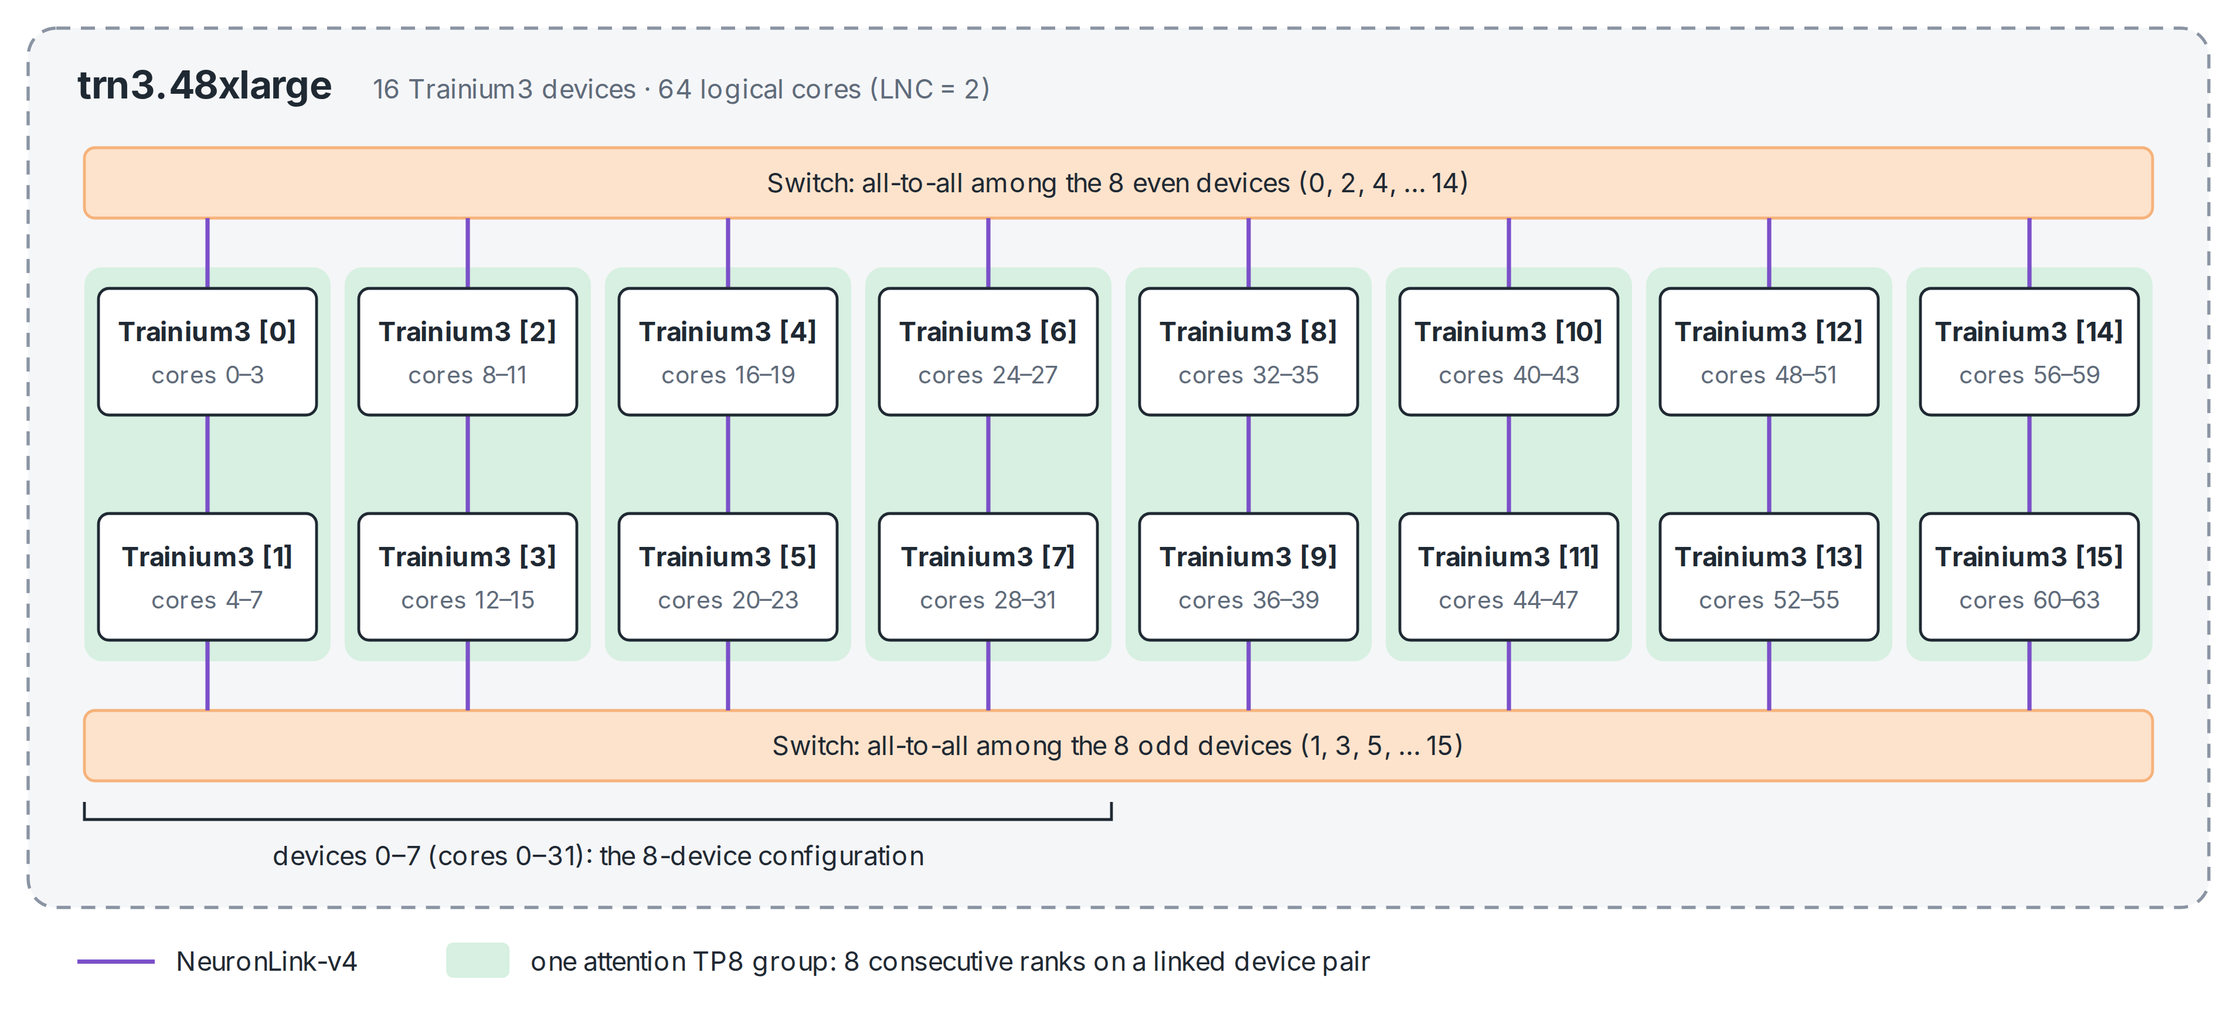
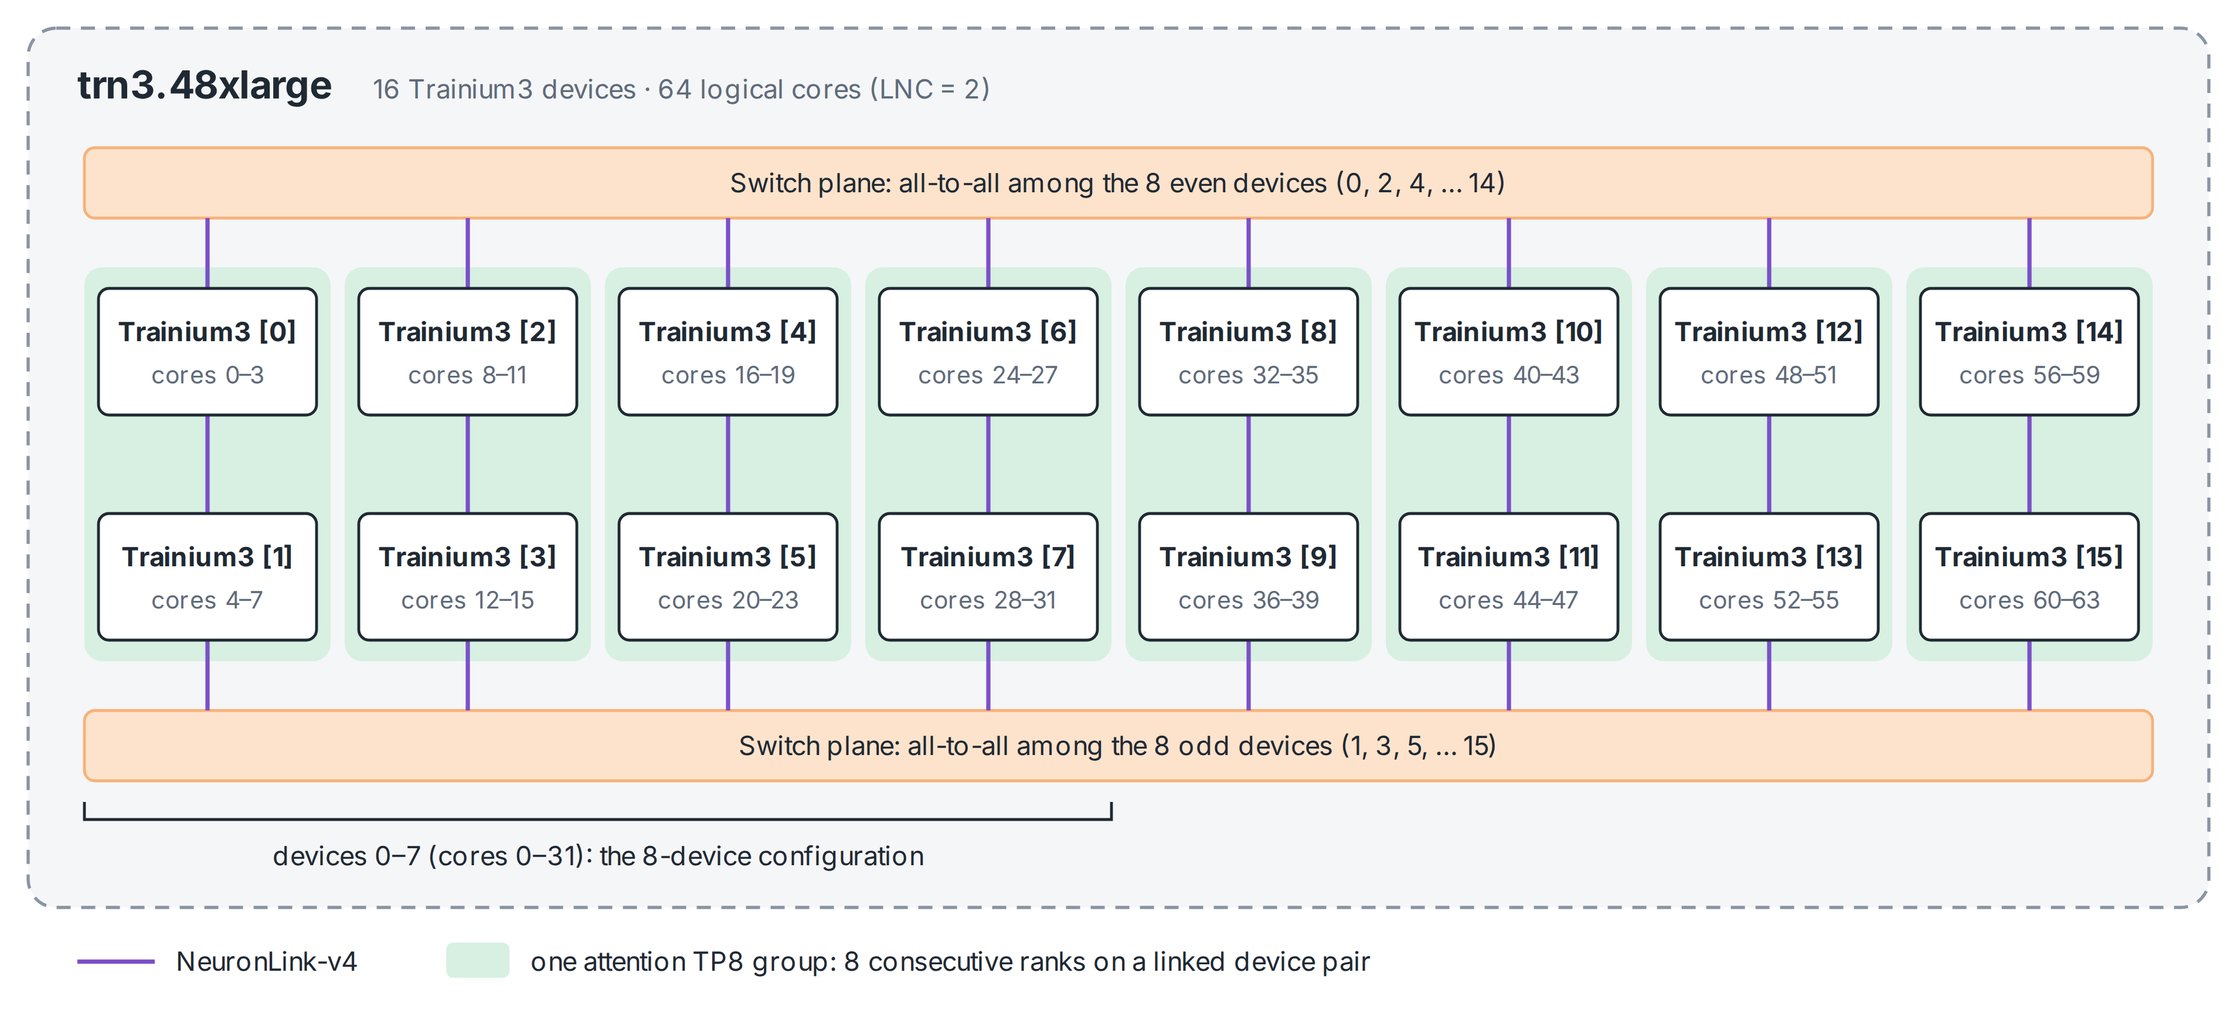
update blog

Changed region(s): [[0.3118, 0.7138, 0.6861, 0.7448], [0.3118, 0.1552, 0.6861, 0.1862]]

diff --git a/rpt_figs/scripts/topology.py b/rpt_figs/scripts/topology.py
@@ -1,5 +1,5 @@
 """trn3.48xlarge interconnect, from `neuron-ls --topology` on the instance: device 2k <-> 2k+1 direct link, the 8 even
-devices all-to-all through one switch, the 8 odd devices through another. LNC=2: 4 logical cores per device.
+devices all-to-all through one switch plane, the 8 odd devices through another. LNC=2: 4 logical cores per device.
 Attention TP8 group = 8 consecutive ranks (the EP-TP group) = one linked pair; the 8-device runs use devices 0-7."""
 import sys
 from pathlib import Path
@@ -37,8 +37,8 @@ for i in range(8):
                                    fill=GREEN_L, rx=5)]))
 # switches
 sx0, sx1 = X0 + 2, X0 + PITCH * 8 - 2
-for sid, (y, h), lab in [('sw_even', SW_T, 'Switch: all-to-all among the 8 even devices (0, 2, 4, … 14)'),
-                         ('sw_odd', SW_B, 'Switch: all-to-all among the 8 odd devices (1, 3, 5, … 15)')]:
+for sid, (y, h), lab in [('sw_even', SW_T, 'Switch plane: all-to-all among the 8 even devices (0, 2, 4, … 14)'),
+                         ('sw_odd', SW_B, 'Switch plane: all-to-all among the 8 odd devices (1, 3, 5, … 15)')]:
     b.append(g(f'n:{sid}', [rect(sx0, y, sx1 - sx0, h, fill=ORANGE_L, stroke=ORANGE_M, sw=0.8, rx=3),
                             text((sx0 + sx1) / 2, y + h / 2 + 2.7, lab, size=7.5, anchor='middle')], 'node'))
 # links (drawn before devices so the device boxes cover the line ends)

diff --git a/BLOG.md b/BLOG.md
@@ -53,19 +53,19 @@ The layers are arranged in groups that each start with a Full or Reindex layer f
 
 ## AWS Trainium 3 vs. NVIDIA B300
 
-A Trainium 3 device has eight compute cores (NeuronCore-v4) and 4 HBM stacks, where every pair of cores share the same HBM stack. A NeuronCore is a heterogeneous processor with several specialized engines. The **Tensor Engine** is a systolic array for matrix multiplications. The **Vector Engine** and **Scalar Engine** run vector operations such as reductions and activation functions. The **GPSIMD Engine** runs general-purpose code. They share a software-managed on-chip scratchpad, **SBUF**, while the Tensor Engine accumulates into a separate buffer, **PSUM**. The DMA engines move data between HBM and SBUF. Although there are 8 cores in one device, the architecture is organized as 4 ranks connected through NeuronLink-v4. Interconnects between ranks in the same device and across devices are the same. One can therefore treat a Trainium 3 device as "4 devices".
+A Trainium 3 device has eight compute cores (NeuronCore-v4) and 4 HBM3E stacks, where every pair of cores share the same HBM stack [3] [6]. A NeuronCore is a heterogeneous processor with several specialized engines. The **Tensor Engine** is a systolic array for matrix multiplications. The **Vector Engine** runs operations where each output depends on several inputs, such as reductions and normalization. The **Scalar Engine** runs element-wise operations such as activation functions. The **GPSIMD Engine** runs general-purpose code. They share a software-managed on-chip scratchpad, **SBUF**, while the Tensor Engine accumulates into a separate buffer, **PSUM**. The DMA engines move data between HBM and SBUF. Although there are 8 cores in one device, software addresses them as logical NeuronCores. With the configuration we use (LNC = 2), a device appears as 4 logical cores, each made of 2 physical cores and 36 GiB of HBM [3] [6]. Each logical core is one rank of our deployment. A rank sends data to a rank on the same device in the same way as to a rank on another device, where the transfer travels over NeuronLink-v4 [5] [6]. One can therefore treat a Trainium 3 device as "4 devices".
 
 ![Trainium 3 device and the NeuronCore programming model](rpt_figs/trainium3_neuroncore.png)
 
 *Figure 4. Left: a Trainium 3 device, eight NeuronCore-v4 cores around four HBM stacks. Right: the programming model of one NeuronCore. DMA moves data between HBM and the on-chip SBUF. The tensor, vector, scalar and GPSIMD engines read from and write to SBUF, and the tensor engine accumulates into PSUM [3] [4].*
 
-Compared with Trainium 2, Trainium 3 has 1.5x the HBM capacity (144 GiB against 96 GiB) and 1.7x the HBM bandwidth (4.9 TB/s against 2.9 TB/s) per device. The devices are also connected differently. Trainium 2 links its devices in a 2D torus. Traffic between distant devices passes through the devices in between. A trn3.48xlarge instance has 16 Trainium 3 devices connected through switches instead (Figure 5). Each device has a direct link to one partner, device 2k to device 2k+1. Beyond that, the instance is split into two halves: the eight even-numbered devices are connected all-to-all through one switch, and the eight odd-numbered devices through a second switch. A device therefore reaches its partner and every device of its own half in one hop, and any other device in two hops, through its partner or through the switch.
+Compared with Trainium 2, Trainium 3 has 1.5x the HBM capacity (144 GiB against 96 GiB) and 1.7x the HBM bandwidth (4.9 TB/s against 2.9 TB/s) per device [3]. The extra bandwidth comes from faster HBM3E: the pin speed rises from 5.7 Gbps to 9.6 Gbps on the same four stacks [6]. The devices are also connected differently. A trn2.48xlarge links its 16 Trainium 2 devices in a 4×4 2D torus [6]. Traffic between distant devices passes through the devices in between. A trn3.48xlarge instance has 16 Trainium 3 devices connected through switches instead (Figure 5) [5]. Each device has a direct link to one partner, device 2k to device 2k+1 [5]. Beyond that, every device connects to the rack's NeuronSwitch-v1 [5]. AWS documents it as one all-to-all switch per rack. In the first generation of switch trays, it is built as two switch planes of eight PCIe 6.0 switches each, and a device links to all eight switches of one plane only [6]. The eight even-numbered devices are on one plane, and the eight odd-numbered devices on the other. A device therefore reaches its partner and every device of its own plane in one hop, and any other device in two hops, through its partner or through a device of its own plane. Transfers that need two hops are forwarded automatically, so a kernel only names the destination [5] [6]. The planes sit in the rack, outside the instance, and also serve the second 16-device server of the rack [5] [6].
 
 ![trn3.48xlarge interconnect](rpt_figs/trn3_48xlarge_topology.png)
 
-*Figure 5. Interconnect topology of trn3.48xlarge. Devices 2k and 2k+1 share a direct link. The 8 even devices are connected all-to-all through one switch, and the 8 odd devices through another. With 4 ranks in each device, the 16-device configuration runs 64 ranks on cores 0–63. Each attention TP8 group (8 consecutive ranks) sits on one linked device pair.*
+*Figure 5. Interconnect topology of trn3.48xlarge. Devices 2k and 2k+1 share a direct link. The 8 even devices are connected all-to-all through one switch plane, and the 8 odd devices through another [5] [6]. With 4 ranks in each device, the 16-device configuration runs 64 ranks on cores 0–63. Each attention TP8 group (8 consecutive ranks) sits on one linked device pair.*
 
-One question is, compared to B300 which is the current state-of-the-art serving device, what's the competence of Trainium 3? The table below compares a Trainium 3 device with an NVIDIA B300 GPU. B300 has 2x the FP8 throughput, 6x the FP4 throughput, 3.7x the BF16 throughput, 1.6x the HBM bandwidth, about twice the memory and 7x the intra-server interconnect bandwidth than Trainium. 
+One question is, compared to B300 which is the current state-of-the-art serving device, what's the competence of Trainium 3? The table below compares a Trainium 3 device with an NVIDIA B300 GPU. B300 has 2x the FP8 throughput, 6x the FP4 throughput, 3.7x the BF16 throughput, 1.6x the HBM bandwidth, about twice the memory and 3.5x the intra-server interconnect bandwidth than Trainium. 
 
 | Per chip | Trainium 3 | B300 | B300 / Trainium 3 |
 |---|---|---|---|
@@ -74,9 +74,9 @@ One question is, compared to B300 which is the current state-of-the-art serving 
 | Dense BF16 | 0.67 PFLOPS | 2.5 PFLOPS | 3.7x |
 | FP32 | 0.18 PFLOPS | 0.08 PFLOPS | 0.45x |
 | HBM | 144 GiB at 4.9 TB/s | up to 288 GB at 8 TB/s | 1.6x bandwidth |
-| Intra-server interconnect | 256 GB/s (NeuronLink-v4) | 1,800 GB/s (NVLink 5) | 7x |
+| Intra-server interconnect, one direction | 256 GB/s (NeuronLink-v4, measured all-gather) | 900 GB/s (NVLink 5, link rate) | 3.5x |
 
-*B300 values are NVIDIA's GB300 NVL72 rack figures divided by its 72 GPUs, with sparse figures halved to dense  [3] [5].*
+*B300 values are NVIDIA's GB300 NVL72 rack figures divided by its 72 GPUs, with sparse figures halved to dense [3] [7].*
 
 Looking at the FLOPs of DeepSeek V4.1 Flash by data type, we found that 47.6% are FP4 (the routed experts), 30.8% FP8, 17.2% BF16 and 4.5% FP32:
 
@@ -87,11 +87,11 @@ Looking at the FLOPs of DeepSeek V4.1 Flash by data type, we found that 47.6% ar
 | BF16 | 17.2% | 3.7x |
 | FP32 | 4.5% | 0.45x |
 
-Therefore, 1 B300 is equivalent to 4 Trainium 3 in terms of the FLOPs performance for DeepSeek V4.1 Flash, about 2 Trainium 3 in terms of the HBM bandwidth, and 7 Trainium 3 for interconnect bandwidth. Decoding of LLMs is highly memory-bound. In production deployments, however, large collective overheads and dependency chains between compute, collectives and DMA accesses are often the culprits of overall slowdown. Furthermore, Trainium 3 needs to perform collectives across more ranks, which makes the interconnect bandwidth a more severe bottleneck. Therefore, we believe more than 2 Trainium 3 is needed to catch up a single B300 GPU.
+Therefore, 1 B300 is equivalent to 4 Trainium 3 in terms of the FLOPs performance for DeepSeek V4.1 Flash, about 2 Trainium 3 in terms of the HBM bandwidth, and 3.5 Trainium 3 for interconnect bandwidth. Decoding of LLMs is highly memory-bound. In production deployments, however, large collective overheads and dependency chains between compute, collectives and DMA accesses are often the culprits of overall slowdown. Furthermore, Trainium 3 needs to perform collectives across more ranks, which makes the interconnect bandwidth a more severe bottleneck. Therefore, we believe more than 2 Trainium 3 is needed to catch up a single B300 GPU.
 
 ## Inference Optimization: Reaching 60x Speedup Over 12 days
 
-Our deployment is built on the vLLM Neuron plugin [8], which adds a Neuron backend to vLLM [9]. All of its kernels are written in the Neuron Kernel Interface (NKI) [10] on Neuron SDK 2.33.0. Many components of DeepSeek V4.1 Flash, such as CSA2, mHC, Engram and DSpark, are not yet supported by vLLM Neuron. We therefore first brought the model up on a trn2.48xlarge, where we implemented the missing operations and validated correctness. We then moved it to a trn3.48xlarge on Oct 22, where it decoded at 99.4 ms per token. Over the following two weeks, we optimized it in four directions: using Trainium 3's new hardware features, fusing kernels into megakernels, removing host overhead in vLLM's Neuron backend, and specializing kernels and parallelization for each phase.
+Our deployment is built on the vLLM Neuron plugin [10], which adds a Neuron backend to vLLM [11]. All of its kernels are written in the Neuron Kernel Interface (NKI) [12] on Neuron SDK 2.33.0. Many components of DeepSeek V4.1 Flash, such as CSA2, mHC, Engram and DSpark, are not yet supported by vLLM Neuron. We therefore first brought the model up on a trn2.48xlarge, where we implemented the missing operations and validated correctness. We then moved it to a trn3.48xlarge on Oct 22, where it decoded at 99.4 ms per token. Over the following two weeks, we optimized it in four directions: using Trainium 3's new hardware features, fusing kernels into megakernels, removing host overhead in vLLM's Neuron backend, and specializing kernels and parallelization for each phase.
 
 ### Exploit new hardware features in Trainium 3
 
@@ -192,7 +192,7 @@ Inside a megakernel, the device mostly waits while an all-reduce is in flight. W
 
 ### Temporal Disaggregation: Specialized Kernels/Parallelization for Different Computations
 
-LLMs are getting more diverse and complex. Disaggregated inference has become a standard way to serve them. Prefill/decode (PD) disaggregation [11] [12] runs the compute-bound prefill and the memory-bound decode on separate groups of devices. Attention/FFN disaggregation (AFD) [13] [14] further separates attention from the MoE experts. Each group then uses the kernels and parallelization scheme that fit its work.
+LLMs are getting more diverse and complex. Disaggregated inference has become a standard way to serve them. Prefill/decode (PD) disaggregation [13] [14] runs the compute-bound prefill and the memory-bound decode on separate groups of devices. Attention/FFN disaggregation (AFD) [15] [16] further separates attention from the MoE experts. Each group then uses the kernels and parallelization scheme that fit its work.
 
 Similarly, different parts of DeepSeek V4.1 Flash need different kernels and parallelization schemes. New modules such as Engram add more choices. For high interactivity, however, splitting the model across groups of devices would add latency to every decoding step. We therefore use temporal disaggregation. Each module and each stage has its own kernels and parallelization scheme, and they run one after another on the same devices (Figure 8).
 
@@ -282,8 +282,8 @@ For the first token, Trainium 3 is already on par with GPU serving. The table be
 
 | Deployment | TTFT, 1K-token prompt | Source |
 |---|---|---|
-| Dynamo vLLM, concurrency 1 | 0.2 s | [6] |
-| Together AI | 0.3 s | [7] |
+| Dynamo vLLM, concurrency 1 | 0.2 s | [8] |
+| Together AI | 0.3 s | [9] |
 | Trainium 3, 8 devices (ours) | 0.24 s | median at batch size 1 |
 
 Our TTFT is close to Dynamo vLLM and lower than Together AI. The published numbers are rounded to a tenth of a second, and Artificial Analysis measures from the client, including the network.
@@ -300,7 +300,7 @@ Serving one user on half of the instance also makes Trainium 3 cheaper per token
 | Trainium 3, 8 devices, $47/hr instance | JSON data, exact copy | 8 Trn3 | 432–445 | 23.50 | 66,179–68,170 | 1.83–1.88x |
 | Trainium 3, 8 devices, $51/hr instance | JSON data, exact copy | 8 Trn3 | 432–445 | 25.50 | 60,988–62,824 | 1.68–1.74x |
 
-The B300 cost is AWS's 8-GPU B300 instance at $130 per hour, divided by two for 4 GPUs. The trn3.48xlarge price is our estimate: $47 per hour based on H100 pricing, or $51 per hour based on the performance ratio to B300. The B300 token speed is the P90 interactivity measured by SemiAnalysis InferenceX [6] on Oct 20. Neither side counts input tokens or prefill time. We have no B300 measurement on code or JSON data. If B300 also runs faster on such text, the code and JSON rows overstate the advantage of Trainium 3.
+The B300 cost is AWS's 8-GPU B300 instance at $130 per hour, divided by two for 4 GPUs. The trn3.48xlarge price is our estimate: $47 per hour based on H100 pricing, or $51 per hour based on the performance ratio to B300. The B300 token speed is the P90 interactivity measured by SemiAnalysis InferenceX [8] on Oct 20. Neither side counts input tokens or prefill time. We have no B300 measurement on code or JSON data. If B300 also runs faster on such text, the code and JSON rows overstate the advantage of Trainium 3.
 
 ### Batch 1 vs. batch 10
 
@@ -317,7 +317,7 @@ With ten sequences, a decoding step takes about 41 to 45 ms, whether one user or
 
 ## Profile Analysis
 
-Trainium 3 matches GPU serving on TTFT, but not on decoding speed. The B300 deployment serves 653.6 tokens/s per user [6], 2.27x more than our 8-device deployment. This is expected from the [hardware comparison](#aws-trainium-3-vs-nvidia-b300). Our deployment uses 2 Trainium 3 devices for each B300. This gives slightly more HBM bandwidth than B300, but about half of the FLOPs for this model and less than a third of the interconnect bandwidth. To match B300 at our draft acceptance of about 3.5 tokens per step, our decoding step would need to take 5.3 ms instead of 12.1 ms.
+Trainium 3 matches GPU serving on TTFT, but not on decoding speed. The B300 deployment serves 653.6 tokens/s per user [8], 2.27x more than our 8-device deployment. This is expected from the [hardware comparison](#aws-trainium-3-vs-nvidia-b300). Our deployment uses 2 Trainium 3 devices for each B300. This gives slightly more HBM bandwidth than B300, but about half of the FLOPs for this model and a little more than half of the interconnect bandwidth. To match B300 at our draft acceptance of about 3.5 tokens per step, our decoding step would need to take 5.3 ms instead of 12.1 ms.
 
 To find where the time goes, we profiled a batch-1 decoding step on the 8-device deployment. The device is busy for 97% of the 12.04 ms step. The MoE takes 3.94 ms, attention 3.38 ms, collectives 2.25 ms and the drafter 1.12 ms. The host gaps between the four launches take only 0.34 ms.
 
@@ -405,13 +405,15 @@ This work is supported by the AWS Build on Trainium program at UCLA. We used Aut
 [2] DeepSeek-AI. DeepSeek-V4.1-Flash Technical Report. https://huggingface.co/deepseek-ai/DeepSeek-V4.1-Flash/blob/main/DeepSeek_V41_Tech_Report.pdf  
 [3] AWS Neuron Documentation. Trainium3 Architecture. https://awsdocs-neuron.readthedocs-hosted.com/en/latest/about-neuron/arch/neuron-hardware/trainium3.html  
 [4] AWS Neuron Documentation. NKI Trainium3 Architecture Guide. https://awsdocs-neuron.readthedocs-hosted.com/en/latest/nki/guides/architecture/trainium3_arch.html  
-[5] NVIDIA. GB300 NVL72. https://www.nvidia.com/en-us/data-center/gb300-nvl72/  
-[6] SemiAnalysis. InferenceX. https://inferencex.semianalysis.com/  
-[7] Artificial Analysis. https://artificialanalysis.ai/  
-[8] vLLM Neuron plugin. https://github.com/vllm-project/vllm-neuron  
-[9] W. Kwon, Z. Li, S. Zhuang, Y. Sheng, L. Zheng, C. H. Yu, J. E. Gonzalez, H. Zhang and I. Stoica. Efficient Memory Management for Large Language Model Serving with PagedAttention. SOSP 2023. https://github.com/vllm-project/vllm  
-[10] AWS Neuron Documentation. Neuron Kernel Interface (NKI). https://awsdocs-neuron.readthedocs-hosted.com/en/latest/nki/index.html  
-[11] Y. Zhong et al. DistServe: Disaggregating Prefill and Decoding for Goodput-optimized Large Language Model Serving. OSDI 2024. https://arxiv.org/abs/2401.09670  
-[12] P. Patel et al. Splitwise: Efficient Generative LLM Inference Using Phase Splitting. ISCA 2024. https://arxiv.org/abs/2311.18677  
-[13] R. Zhu et al. MegaScale-Infer: Serving Mixture-of-Experts at Scale with Disaggregated Expert Parallelism. 2025. https://arxiv.org/abs/2504.02263  
-[14] StepFun. Step-3 is Large yet Affordable: Model-system Co-design for Cost-effective Decoding. 2025. https://arxiv.org/abs/2507.19427  
+[5] AWS Neuron Documentation. Amazon EC2 Trn3 Architecture. https://awsdocs-neuron.readthedocs-hosted.com/en/latest/about-neuron/arch/neuron-hardware/trn3-arch.html  
+[6] D. Patel, D. Nishball, W. Chu et al. AWS Trainium3 Deep Dive: A Potential Challenger Approaching. SemiAnalysis, Dec 4, 2025. https://newsletter.semianalysis.com/p/aws-trainium3-deep-dive-a-potential  
+[7] NVIDIA. GB300 NVL72. https://www.nvidia.com/en-us/data-center/gb300-nvl72/  
+[8] SemiAnalysis. InferenceX. https://inferencex.semianalysis.com/  
+[9] Artificial Analysis. https://artificialanalysis.ai/  
+[10] vLLM Neuron plugin. https://github.com/vllm-project/vllm-neuron  
+[11] W. Kwon, Z. Li, S. Zhuang, Y. Sheng, L. Zheng, C. H. Yu, J. E. Gonzalez, H. Zhang and I. Stoica. Efficient Memory Management for Large Language Model Serving with PagedAttention. SOSP 2023. https://github.com/vllm-project/vllm  
+[12] AWS Neuron Documentation. Neuron Kernel Interface (NKI). https://awsdocs-neuron.readthedocs-hosted.com/en/latest/nki/index.html  
+[13] Y. Zhong et al. DistServe: Disaggregating Prefill and Decoding for Goodput-optimized Large Language Model Serving. OSDI 2024. https://arxiv.org/abs/2401.09670  
+[14] P. Patel et al. Splitwise: Efficient Generative LLM Inference Using Phase Splitting. ISCA 2024. https://arxiv.org/abs/2311.18677  
+[15] R. Zhu et al. MegaScale-Infer: Serving Mixture-of-Experts at Scale with Disaggregated Expert Parallelism. 2025. https://arxiv.org/abs/2504.02263  
+[16] StepFun. Step-3 is Large yet Affordable: Model-system Co-design for Cost-effective Decoding. 2025. https://arxiv.org/abs/2507.19427  
